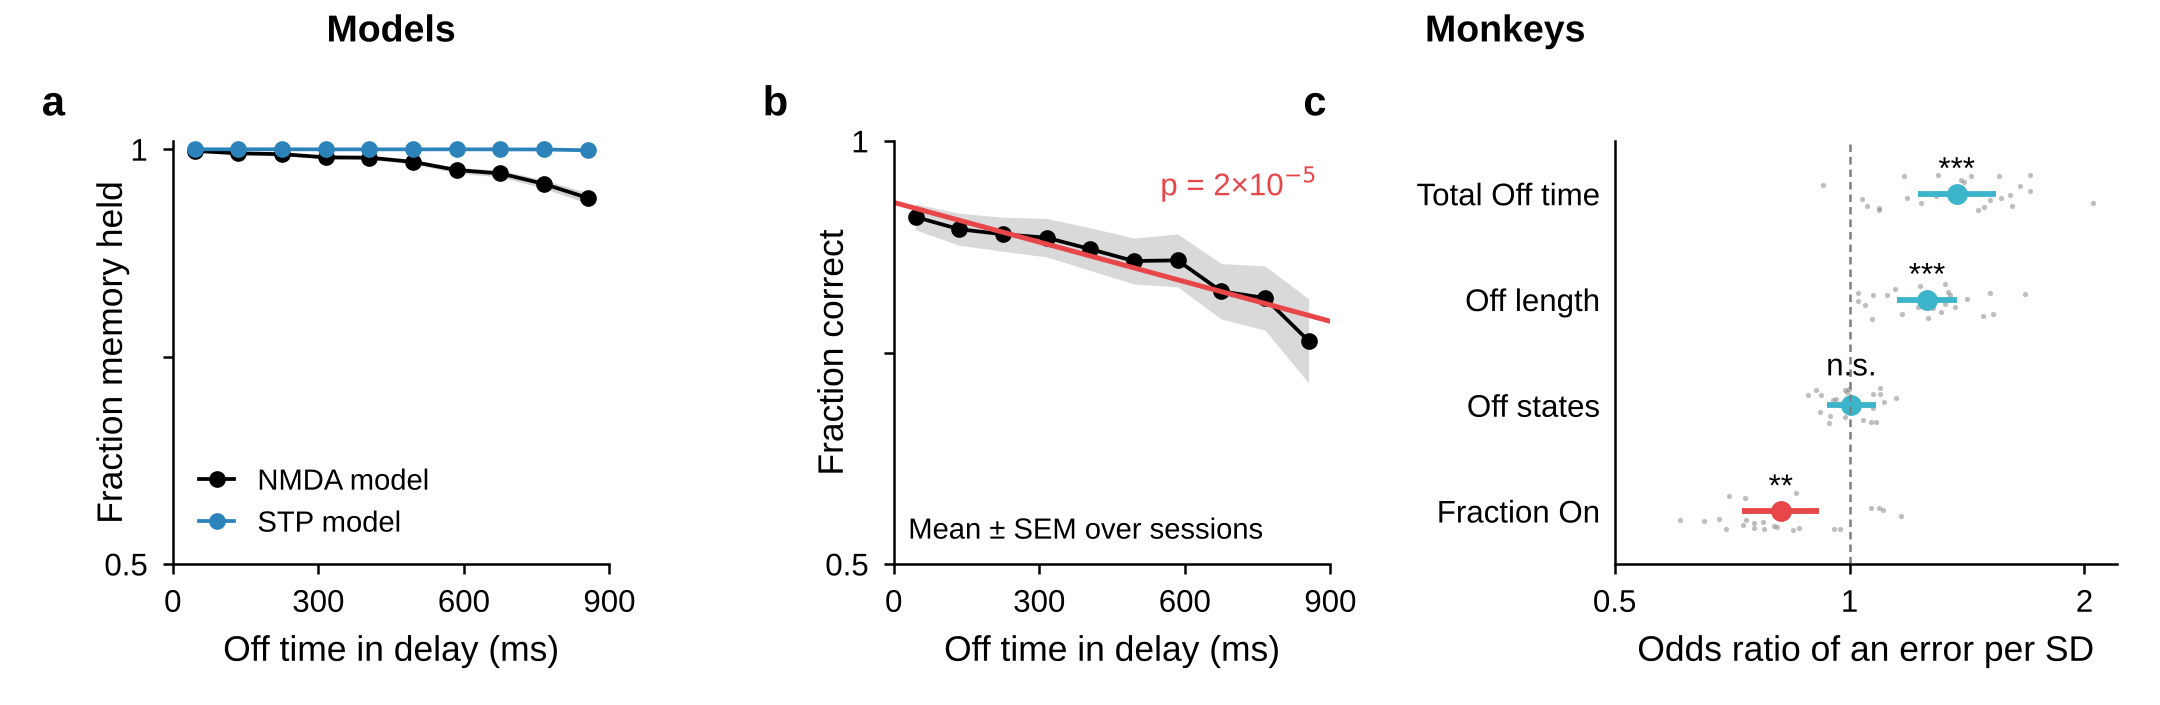
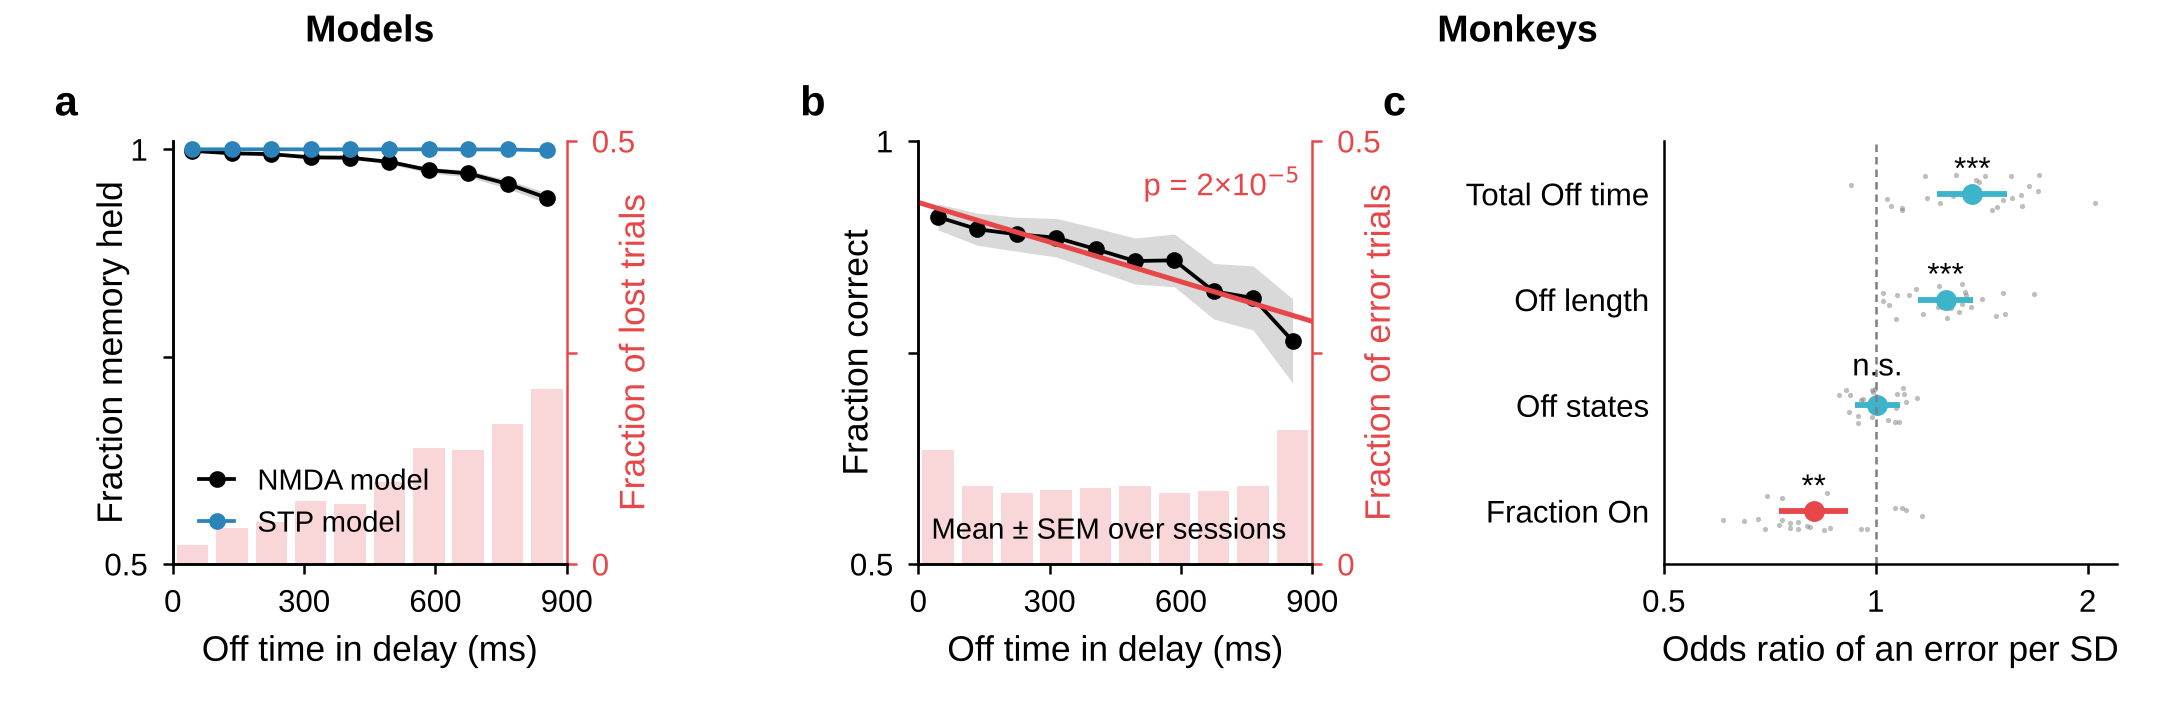
paper: Figure 3a, b add the distribution of memory-lost (model) and error (data) trials over Off-time bins on a right axis
Claude-Session: https://claude.ai/code/session_01Muxo6fVhqMZ2e3pmGJiRgd

diff --git a/paper/scripts/fig3_off_time.py b/paper/scripts/fig3_off_time.py
@@ -3,9 +3,10 @@
 Off time = fraction of the 91 delay time points (500-1,400 ms after cue onset, 10 ms apart) labelled Off x 900 ms,
 for the data and for the models alike.
 a, memory held against Off time in the NMDA and STP model, each with its own fitted dips (100,000 trials per model;
-   10 bins of 0.1 of the delay, 95% Wilson intervals).
+   10 bins of 0.1 of the delay, 95% Wilson intervals); bars: distribution of NMDA-model trials with the memory lost
+   over the same bins (right axis).
 b, fraction correct against Off time (session mean +- SEM in the same bins), with the linear regression of each
-   session's fraction correct on bin centre (red).
+   session's fraction correct on bin centre (red); bars: distribution of error trials over the same bins (right axis).
 c, odds ratio of an error per within-session SD of each On/Off statistic (logistic GLMM fixed effect, 95% CI),
    with each session's weight as grey dots; stars from the likelihood-ratio p.
 
@@ -62,6 +63,21 @@ def off_axis(ax, ylabel=None):
         ax.set_ylabel(ylabel)
 
 
+def error_bars(ax, frac, err, label):
+    """Distribution of error (or memory-lost) trials over the Off-time bins, as bars on a right-hand axis."""
+    i = np.digitize(frac[err], EDGES) - 1
+    h = np.bincount(i, minlength=len(CENT))[:len(CENT)] / err.sum()
+    tw = ax.twinx()
+    tw.bar(W * CENT, h, width=0.8 * W * 0.1, color=C_ON, alpha=0.22, lw=0)
+    tw.set_ylim(0, 0.5); tw.set_yticks([0, 0.25, 0.5], ['0', '', '0.5'])
+    tw.spines['right'].set_visible(True)
+    tw.set_ylabel(label, color=C_ON, labelpad=-4)
+    tw.tick_params(axis='y', colors=C_ON)
+    tw.spines['right'].set_color(C_ON)
+    ax.set_zorder(tw.get_zorder() + 1); ax.patch.set_visible(False)
+    return h
+
+
 glmm = pd.read_csv(f'{DATA}/joint_glmm.csv')
 sw = pd.read_csv(f'{DATA}/joint_glmm_session_weights.csv')
 trials = pd.read_csv(f'{DATA}/per_trial_correct_and_error.csv')
@@ -71,7 +87,7 @@ for v in ('nmda', 'fac'):
     model[v] = (np.round(d['off_time_s'] / 0.01) / NPT, d['memory_held'].astype(bool))
 
 fig = plt.figure(figsize=(7.2, 2.35))
-gs = fig.add_gridspec(1, 3, width_ratios=[1, 1, 1.15], wspace=0.62, left=0.08, right=0.98, top=0.8, bottom=0.2)
+gs = fig.add_gridspec(1, 3, width_ratios=[1, 1, 1.15], wspace=0.85, left=0.08, right=0.98, top=0.8, bottom=0.2)
 ma, a, b = (fig.add_subplot(gs[0, j]) for j in range(3))   # ma: models; a, b: monkeys
 for axs, txt in (((ma, ma), 'Models'), ((a, b), 'Monkeys')):
     x = (axs[0].get_position().x0 + axs[1].get_position().x1) / 2
@@ -95,6 +111,7 @@ off_axis(a, 'Fraction correct')
 a.set_ylim(0.5, 1); a.set_yticks([0.5, 0.75, 1], ['0.5', '', '1'])
 a.yaxis.labelpad = -6
 a.text(30, 0.53, 'Mean ± SEM over sessions', fontsize=7)
+herr = error_bars(a, trials.frac_off.values, ~trials.correct.values.astype(bool), 'Fraction of error trials')
 letter(a, 'b')
 
 # c: odds ratio of an error per SD of each statistic
@@ -130,10 +147,13 @@ off_axis(ma, 'Fraction memory held')
 ma.set_ylim(0.5, 1.01); ma.set_yticks([0.5, 0.75, 1], ['0.5', '', '1'])
 ma.yaxis.labelpad = -6
 ma.legend(loc='lower left', handlelength=1.2, fontsize=7, frameon=False)
+frac, held = model['nmda']
+hlost = error_bars(ma, frac, ~held, 'Fraction of lost trials')
 letter(ma, 'a')
 
 fig.savefig(OUT, dpi=300)
 fig.savefig(OUT.replace('.png', '.svg'))
+print('error distribution:', np.round(herr, 3).tolist(), 'NMDA lost distribution:', np.round(hlost, 3).tolist())
 print('fraction correct by bin:', np.round(mu, 3).tolist(), 'sessions per bin:', n.tolist())
 print('regression: slope per 100 ms', 100 * reg.slope, 'p', reg.pvalue, 'n', ok.sum())
 for v in ('nmda', 'fac'):
